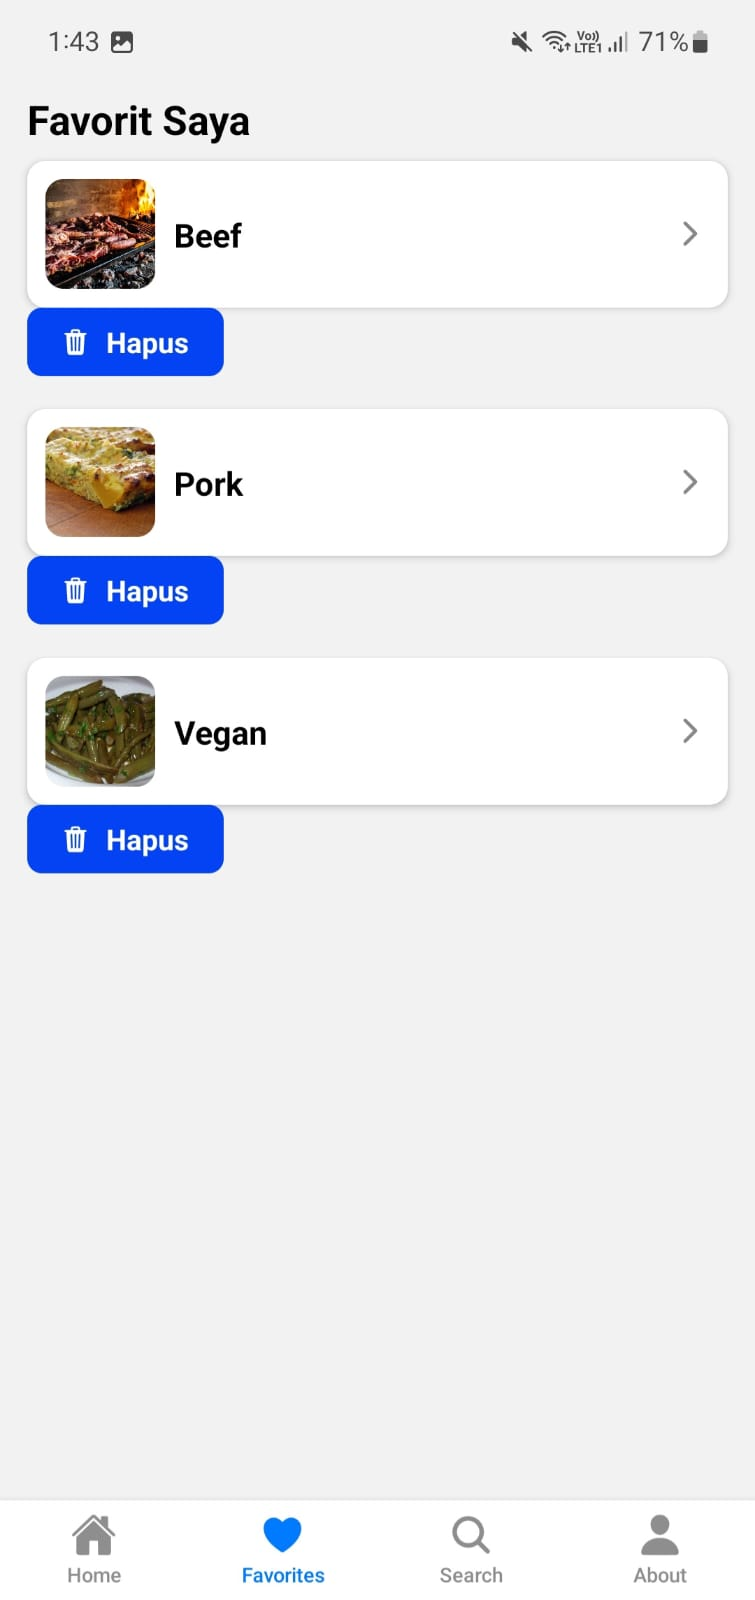
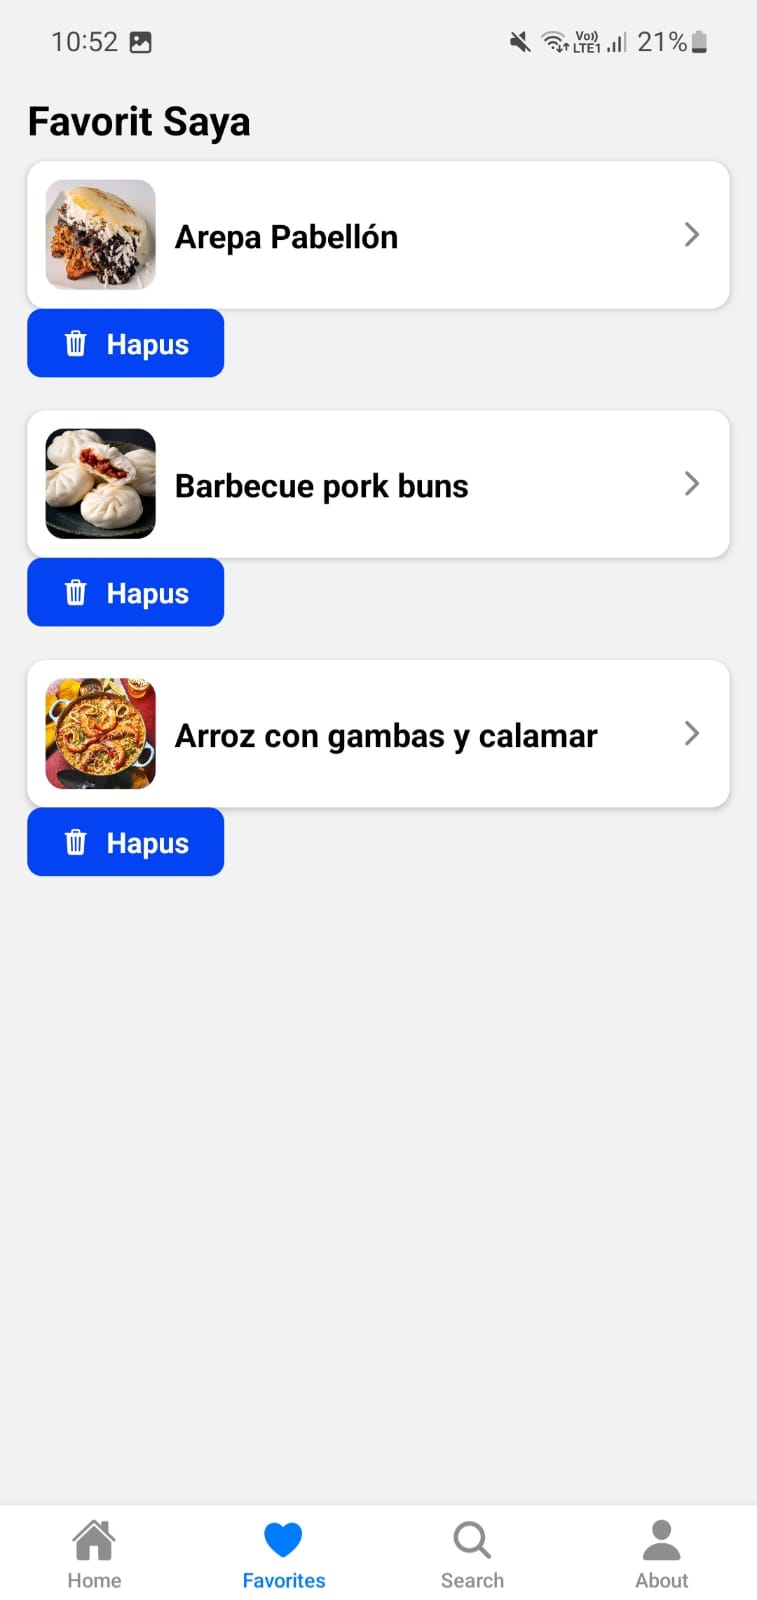
merefactor flow dari mealcard

diff --git a/src/components/MealCard.js b/src/components/MealCard.js
@@ -1,25 +1,17 @@
 import React from "react";
-import {
-  View,
-  Text,
-  Image,
-  TouchableOpacity,
-  StyleSheet,
-} from "react-native";
+import { View, Text, Image, TouchableOpacity, StyleSheet, } from "react-native";
 import { Ionicons } from "@expo/vector-icons";
 
 export default function MealCard({ item, onPress }) {
   const image = item.strCategoryThumb || item.strMealThumb;
-  const title = item.strCategory || item.strMeal;
+  const title = item.strMeal || item.strCategory;
 
   return (
     <TouchableOpacity style={styles.card} onPress={onPress}>
       <Image source={{ uri: image }} style={styles.image} />
-
       <View style={styles.content}>
         <Text style={styles.title}>{title}</Text>
       </View>
-
       <Ionicons name="chevron-forward" size={20} color="#888" />
     </TouchableOpacity>
   );
@@ -36,17 +28,7 @@ const styles = StyleSheet.create({
     borderRadius: 10,
     elevation: 3,
   },
-  image: {
-    width: 60,
-    height: 60,
-    borderRadius: 10,
-  },
-  content: {
-    flex: 1,
-    marginLeft: 10,
-  },
-  title: {
-    fontSize: 16,
-    fontWeight: "bold",
-  },
+  image: { width: 60, height: 60, borderRadius: 10, },
+  content: { flex: 1, marginLeft: 10, },
+  title: { fontSize: 16, fontWeight: "bold", },
 });
